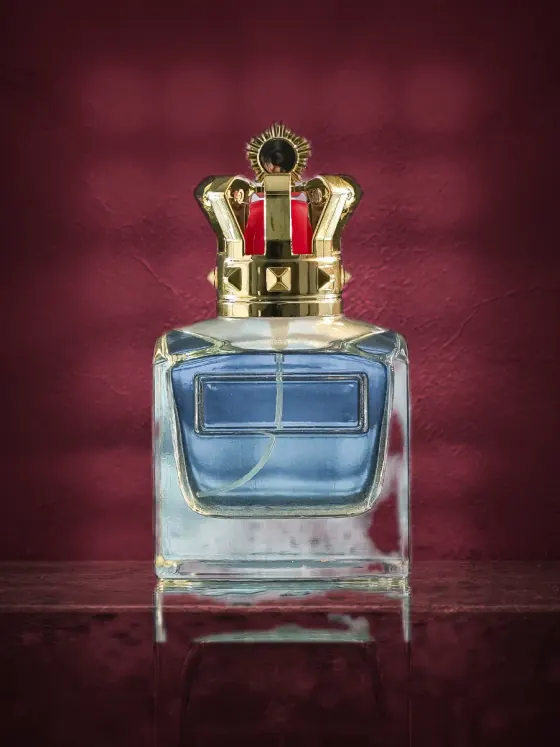
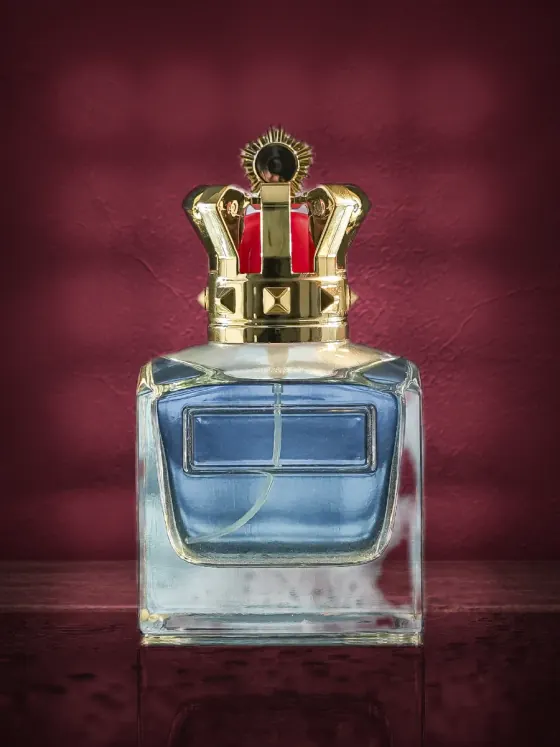
Carrito que se cierra con "atrás", página del catálogo en la dirección y 5 fotos corregidas
- El cajón del pedido no tenía entrada en el historial: con el carrito
  abierto, el gesto de atrás del celular sacaba de la página (del catálogo a
  la portada) y dejaba el cajón encima. Ahora suma su entrada como la ficha y
  la hoja de tamaños, recién cuando esas terminaron de cerrarse, y "atrás" lo
  cierra sin mover la página. La X, Escape y tocar afuera deshacen la entrada.
- El paginador de escritorio guardaba la página en memoria: recargar volvía a
  la 1 y "atrás" salía del catálogo. Ahora va en la dirección (?pagina=3),
  cambiar de página suma una entrada y cambiar un filtro vuelve a la 1.
- Fotos: el Phantom negro tenía las patas duplicadas (el reflejo del piso de
  la foto original entraba en la máscara). Corte nuevo para Phantom negro,
  Scandal Intense Fem, Scandal Hom (sin reflejo), Pure XS Fem (ya no flota) y
  Creed Aventus. Recompuestas sobre la pared vino.

Banco 94/94 en local y motores.py sin fallas en Safari, Chrome y Firefox.

diff --git a/src/components/tienda/TiendaLayout.jsx b/src/components/tienda/TiendaLayout.jsx
@@ -1,5 +1,5 @@
 import { lazy, Suspense, useEffect, useLayoutEffect, useRef, useState } from 'react';
-import { Link, useLocation, useNavigationType } from 'react-router-dom';
+import { Link, useLocation, useNavigate, useNavigationType } from 'react-router-dom';
 import { precargarCatalogoCuandoConvenga } from './precargaCatalogo.js';
 // En el prerender no hay pantalla: ahi va el useEffect comun, que no avisa.
 const useAntesDePintar = typeof window === 'undefined' ? useEffect : useLayoutEffect;
@@ -17,6 +17,11 @@ import { MARCA, CABECERA, LEGAL, PIE, COMO_FUNCIONA } from '../../config/conteni
 import { linkWhatsApp } from '../../lib/whatsapp';
 import '../../styles/tienda.css';
 import s from './TiendaLayout.module.css';
+
+// Marca de esta carga de la pagina para la entrada del cajon en el historial
+// (mismo criterio que SESION en TiendaShell): el estado de una entrada
+// sobrevive a recargar y sin la marca el cajon se tomaria por abierto.
+const SESION_PEDIDO = Math.random().toString(36).slice(2);
 
 const CartIcon = () => (
   <svg width="19" height="19" viewBox="0 0 24 24" fill="none" stroke="currentColor" strokeWidth="1.7" strokeLinecap="round" strokeLinejoin="round" aria-hidden="true">
@@ -42,8 +47,42 @@ export default function TiendaLayout({ children, ficha = null, hoja = null, capa
   // Chromium de escritorio; ver src/lib/vidrioLiquido.js).
   useEffect(() => montarVidrioLiquido(raiz.current), []);
 
-  const { pathname, hash } = useLocation();
+  const ubicacion = useLocation();
+  const { pathname, hash } = ubicacion;
   const tipoNavegacion = useNavigationType();
+  const navigate = useNavigate();
+
+  // El cajon con su entrada en el historial, como la ficha y la hoja de
+  // tamanos: "atras" lo cierra (Sebas, 31/10: con el cajon abierto, el gesto
+  // de atras del celular sacaba de la pagina y dejaba el cajon encima de la
+  // anterior). La entrada se suma recien cuando no queda otro dialogo: al
+  // agregar desde la ficha o la hoja, esas se cierran con un "atras" que
+  // todavia no termino, y empujar antes haria que ese "atras" se coma la
+  // entrada del cajon.
+  const enEntradaPedido = ubicacion.state?.pedido === SESION_PEDIDO;
+  const otroDialogo = Boolean(ficha) || Boolean(hoja);
+  const empujado = useRef(false);
+  useEffect(() => {
+    if (!open || otroDialogo || enEntradaPedido || empujado.current) return;
+    empujado.current = true;
+    navigate(
+      { pathname: ubicacion.pathname, search: ubicacion.search, hash: ubicacion.hash },
+      { state: { ...(ubicacion.state?.familia ? { familia: true } : {}), pedido: SESION_PEDIDO }, preventScrollReset: true }
+    );
+  }, [open, otroDialogo, enEntradaPedido, ubicacion, navigate]);
+  // Se salio de la entrada con "atras": se cierra.
+  useEffect(() => {
+    if (open && empujado.current && !enEntradaPedido) {
+      empujado.current = false;
+      setOpen(false);
+    }
+  }, [enEntradaPedido]); // eslint-disable-line react-hooks/exhaustive-deps
+  // Se cerro con la X, tocando afuera o con Escape: se deshace la entrada.
+  useEffect(() => {
+    if (open || !empujado.current) return;
+    empujado.current = false;
+    if (enEntradaPedido) navigate(-1);
+  }, [open]); // eslint-disable-line react-hooks/exhaustive-deps
 
   // El catalogo se trae antes de que lo pidan (ver precargaCatalogo.js).
   useEffect(() => precargarCatalogoCuandoConvenga(), []);

diff --git a/src/components/tienda/ProductGrid.jsx b/src/components/tienda/ProductGrid.jsx
@@ -69,7 +69,11 @@ export default function ProductGrid({
   const [rebaja, setRebaja] = useState(false);
   const [familiaAbierta, setFamiliaAbierta] = useState(false);
   const [q, setQ] = useState('');
-  const [pagina, setPagina] = useState(0);
+  // La pagina del paginador de escritorio tambien vive en la direccion
+  // (?pagina=3): recargar la deja donde estaba y "atras" vuelve a la anterior
+  // en vez de salir del catalogo (Sebas, 31/10). En la direccion va contada
+  // desde 1, como la lee una persona; aca adentro, desde 0.
+  const pagina = Math.max(0, (Math.floor(Number(params.get('pagina'))) || 1) - 1);
   const tope = useRef(null);
 
   const publicables = useMemo(
@@ -139,8 +143,7 @@ export default function ProductGrid({
   useEffect(() => {
     if (filtrosPrevios.current === claveFiltros) return;
     filtrosPrevios.current = claveFiltros;
-    setPagina(0);
-    setParams((prev) => conFiltro(prev, 'ver', null), { replace: true });
+    setParams((prev) => conFiltro(conFiltro(prev, 'ver', null), 'pagina', null), { replace: true });
   }, [claveFiltros]); // eslint-disable-line react-hooks/exhaustive-deps
 
   const activos = [para, promoActiva].filter(Boolean).length + familias.length + (minis ? 1 : 0) + (rebaja ? 1 : 0);
@@ -149,8 +152,10 @@ export default function ProductGrid({
     setRebaja(false); setPromoActiva(null); setQ('');
   };
 
+  // Cambiar de pagina suma una entrada al historial (sin replace): "atras"
+  // vuelve a la pagina anterior.
   function irA(n) {
-    setPagina(n);
+    setParams((prev) => conFiltro(prev, 'pagina', n > 0 ? n + 1 : null));
     tope.current?.scrollIntoView({ behavior: 'smooth', block: 'start' });
   }
 
